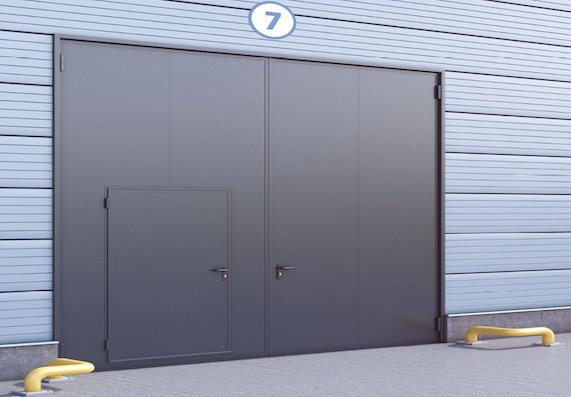
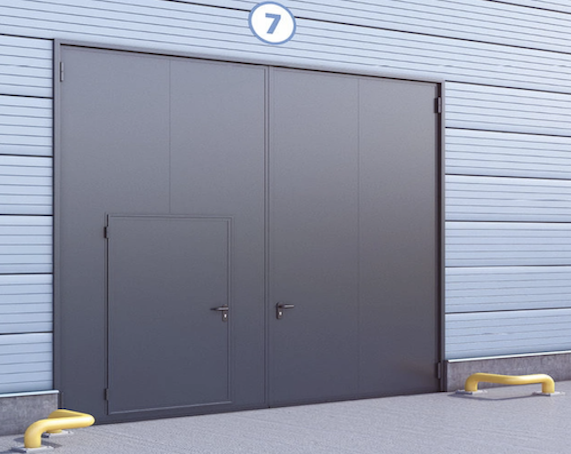
Update from Forestry.io MZP 66 created public/static/2022-11-01-18-24-22.png MZP 66 updated content/landing-page.md

diff --git a/content/landing-page.md b/content/landing-page.md
@@ -38,7 +38,7 @@ cards:
   title: Системы видеонаблюдения
 - template: card
   title: 'Ворота противопожарные распашные EI 60 '
-  picture: "/static/2022-11-02-12-20-10.png"
+  picture: "/static/2022-11-01-18-24-22.png"
   caption: ''
   link_slug: access-control
 - template: card
